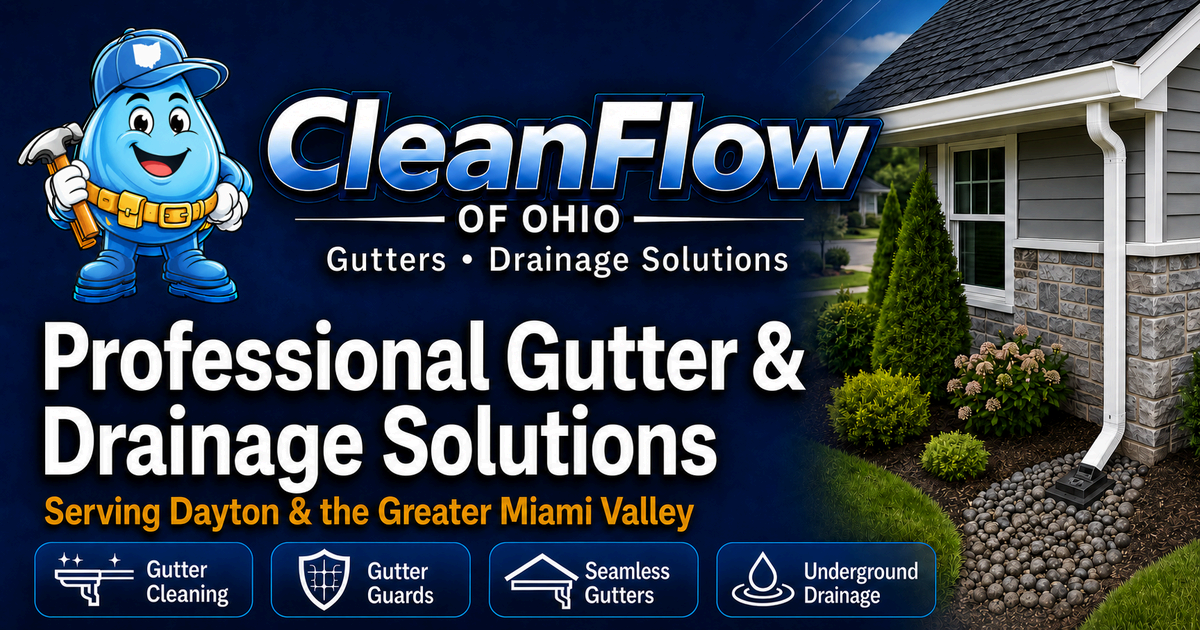
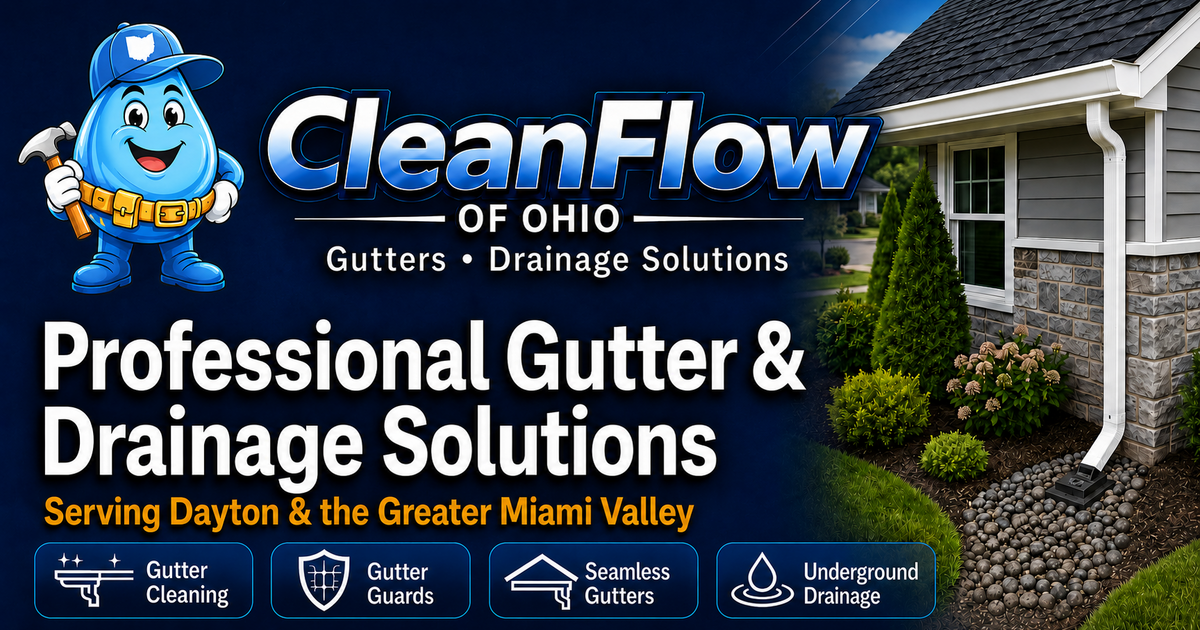
Correct global social preview mascot

diff --git a/assets/README.md b/assets/README.md
@@ -21,7 +21,7 @@ name and icon, and never imply a job result.
 | Path | Type | Size | Ownership / licence | Used by |
 | --- | --- | --- | --- | --- |
 | `assets/brand/cleanflow-mascot.png` | PNG, 820x365, RGBA | ~275 KB | **Owner-approved CleanFlow of Ohio artwork**, supplied by the owner. This is the company's official mascot and logo lockup. Cropped to its content box and downscaled from the 1536x1024 original; artwork itself is unaltered. | Default social-preview source |
-| `assets/og-image.png` | PNG, 1200x630 | ~752 KB | **Owner-approved, AI-assisted CleanFlow of Ohio global promotional artwork**, using the owner's approved mascot and professional gutter-and-drainage visual direction. | Default `og:image` and `twitter:image` for home, services, and about |
+| `assets/og-image.png` | PNG, 1200x630 | ~1.1 MB | **Owner-approved, AI-assisted CleanFlow of Ohio global promotional artwork**, using the owner's approved mascot and professional gutter-and-drainage visual direction. | Default `og:image` and `twitter:image` for home, services, and about |
 | `assets/og-seamless-gutter-installation.png` | PNG, 1200x630 | ~403 KB | **Owner-approved, AI-assisted CleanFlow of Ohio page-specific promotional artwork**, refined under the owner's direction from an approved social-preview concept. The Ohio hat emblem was corrected against cartographic boundary references. | Page-specific `og:image` and `twitter:image` for `/services/gutter-installation` |
 | `assets/og-gutter-cleaning.png` | PNG, 1200x630 | ~685 KB | **Owner-approved, AI-assisted CleanFlow of Ohio page-specific promotional artwork**, using the owner's approved mascot and gutter-cleaning visual direction. | Page-specific `og:image` and `twitter:image` for `/services/gutter-cleaning` |
 | `assets/og-dryer-vent-cleaning.png` | PNG, 1200x630 | ~700 KB | **Owner-approved, AI-assisted CleanFlow of Ohio page-specific promotional artwork**, using the owner's approved mascot and dryer-vent-cleaning visual direction. | Page-specific `og:image` and `twitter:image` for `/services/dryer-vent-cleaning` |
